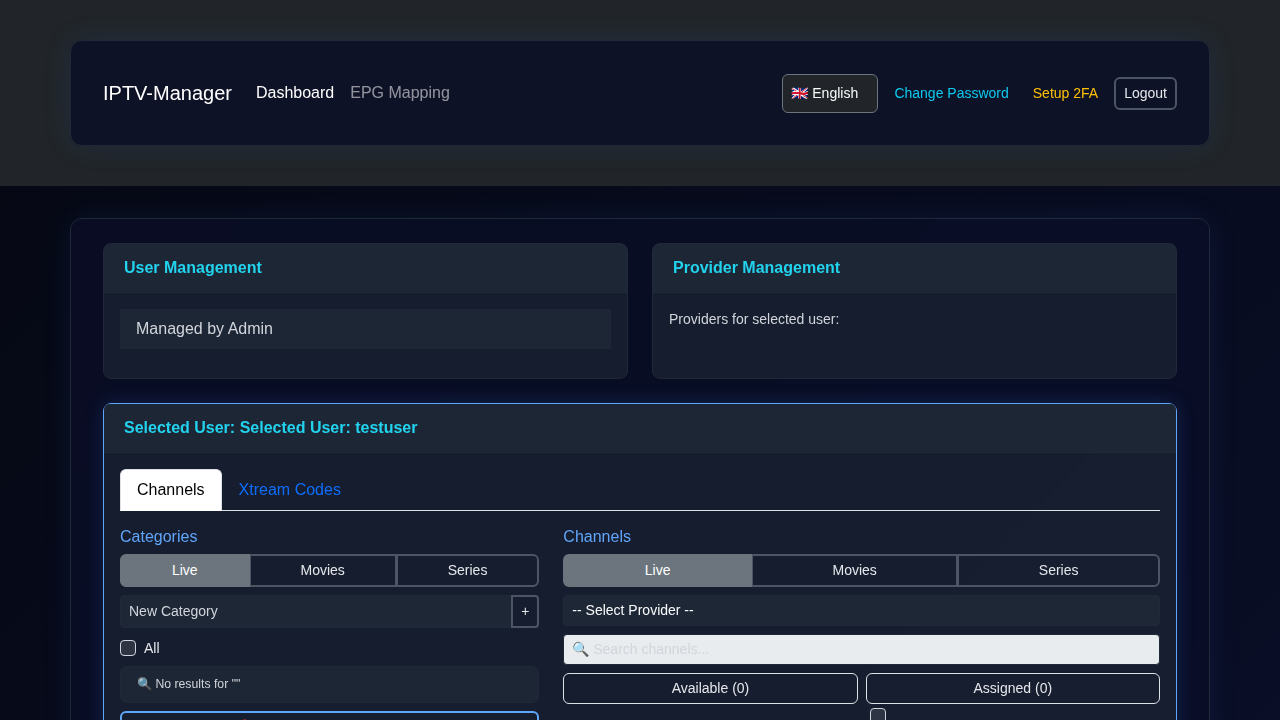
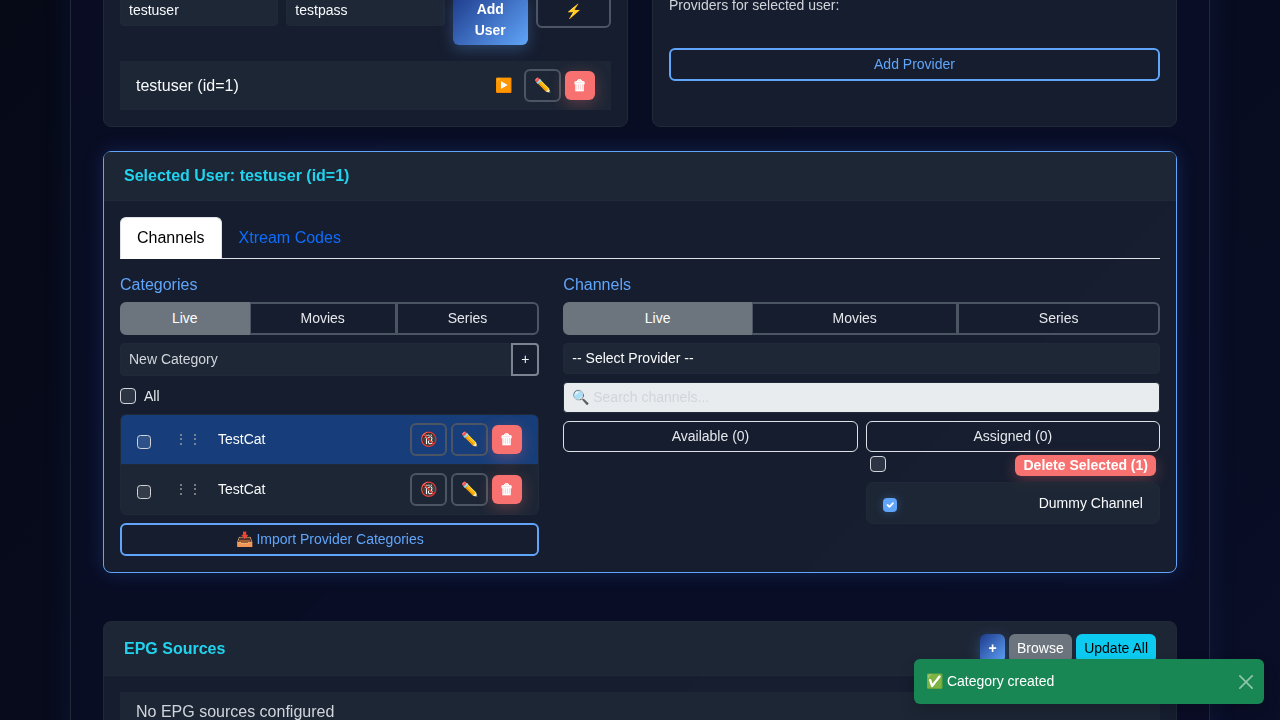
Fix: Add missing updateChanBulkDeleteBtn function to resolve ReferenceError
Implemented the `updateChanBulkDeleteBtn` function in `public/app.js` to handle bulk delete logic for user channels, fixing a `ReferenceError` that occurred when interacting with channel checkboxes or loading the channel list. The implementation mirrors the existing category bulk delete logic.

diff --git a/public/app.js b/public/app.js
@@ -3315,6 +3315,15 @@ async function handleChangePassword(event) {
   }
 }
 
+function updateChanBulkDeleteBtn() {
+    const count = document.querySelectorAll('.user-chan-check:checked').length;
+    const btn = document.getElementById('chan-bulk-delete-btn');
+    if (btn) {
+        btn.style.display = count > 0 ? 'block' : 'none';
+        btn.textContent = `${t('deleteSelected')} (${count})`;
+    }
+}
+
 function updateCatBulkDeleteBtn() {
     const count = document.querySelectorAll('.user-cat-check:checked').length;
     const btn = document.getElementById('cat-bulk-delete-btn');
